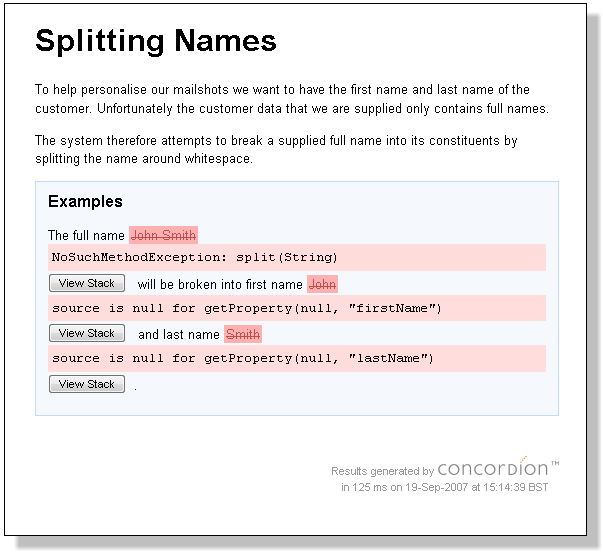
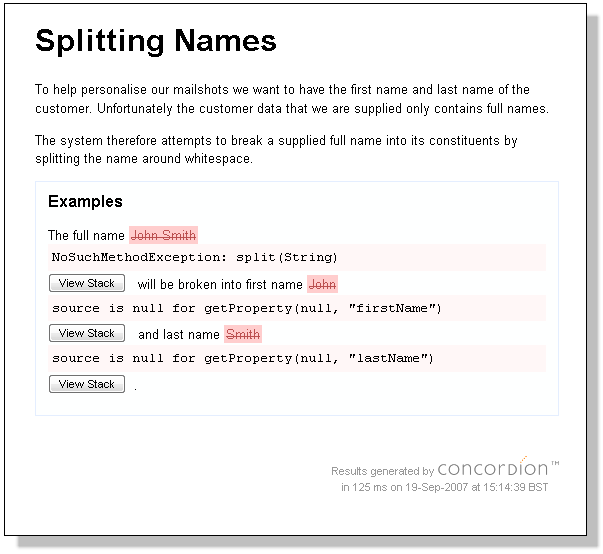
Fixed a typo and updated some images
Made the background into a transparency to avoid the jarring white edges

Changed region(s): [[0.0597, 0.3989, 0.9254, 0.6751]]

diff --git a/tutorial/csharp/markdown/index.md b/tutorial/csharp/markdown/index.md
@@ -3,7 +3,7 @@ spec_type: 'markdown'
 fixture_language: 'csharp'
 ---
 
-Sorry, Markdown format specifications are not yet available for C#. We're working towards a 2.0 release fo Concordion.NET which will support Markdown.
+Sorry, Markdown format specifications are not yet available for C#. We're working towards a 2.0 release for Concordion.NET which will support Markdown.
 
 In the meantime, you can use [HTML]({{ site.baseurl }}/{{ page.subject }}/{{ page.fixture_language}}/html) format.
 
